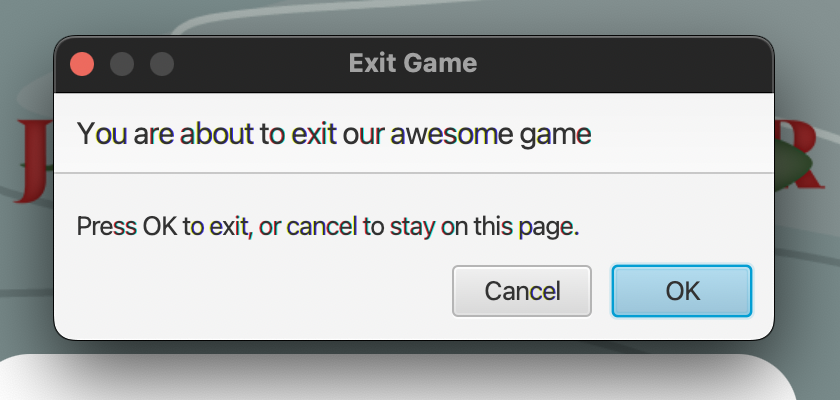
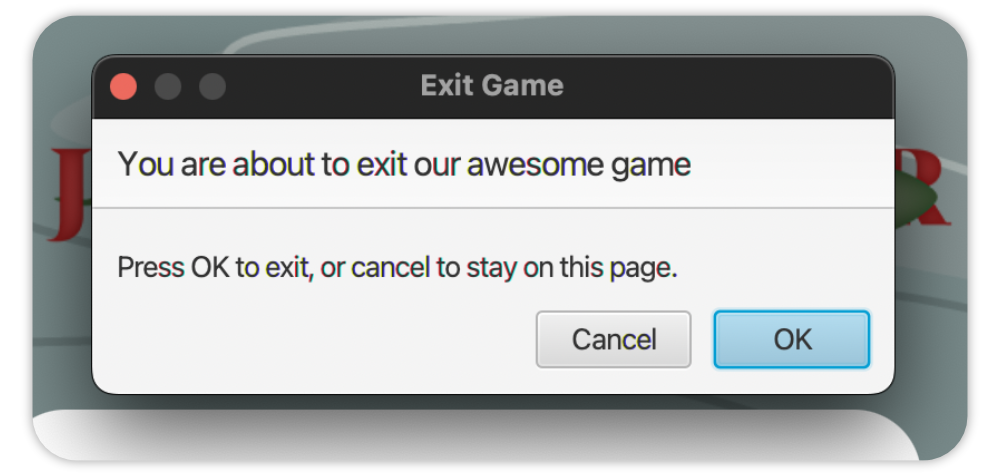
Apply round corners to all images

diff --git a/docs/user-manual.md b/docs/user-manual.md
@@ -242,7 +242,7 @@ __Note:__ the structure, such as the key names of the `JSON` file, must be the s
 
 \pagebreak
 
-![](manual-images/background.jpg)
+![](manual-images/background.png)
 
 # Appendix
 
